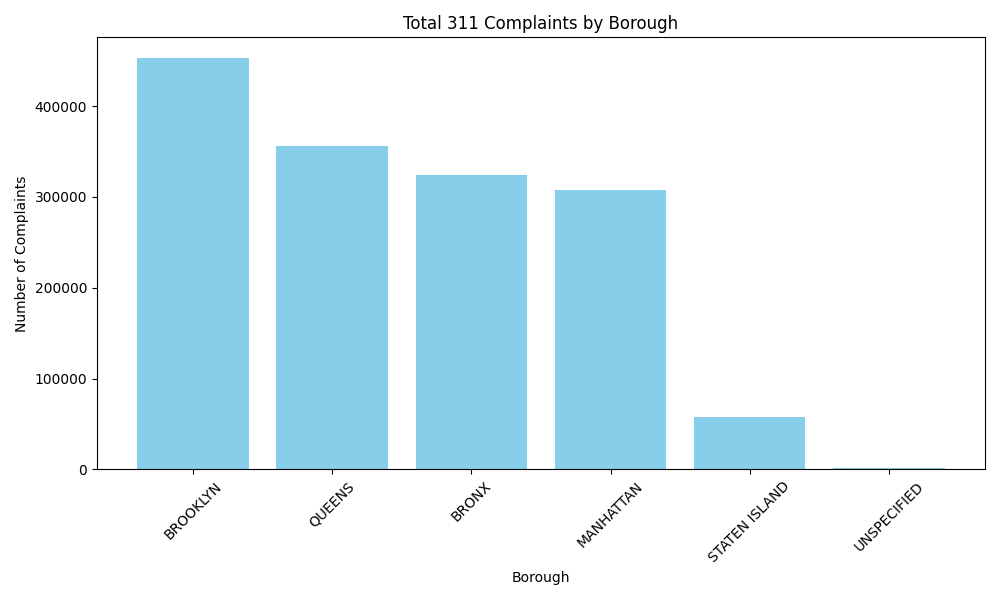
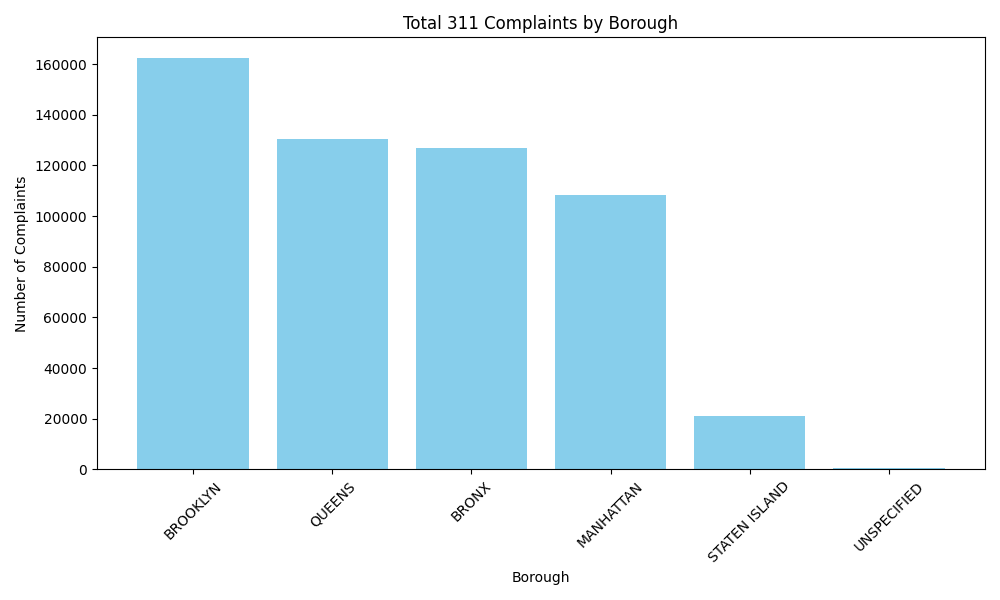
Program now runs and automatically downloads datafile

diff --git a/project/src/utilities.py b/project/src/utilities.py
@@ -1,0 +1,54 @@
+import json
+import os
+import time
+import urllib.request
+import urllib.parse
+import logging
+import sys
+import polars as pl
+
+DATA_URL = "https://data.cityofnewyork.us/resource/erm2-nwe9.json"
+DATA_OUT = os.path.join(os.path.dirname(__file__), "..", "..", "nyc_311_raw_data.jsonl")
+
+def download_data():
+    print("Downloading NYC 311 data...")
+    with open(DATA_OUT, "w") as f:
+        offset, total = 0, 0
+        while offset < 15_000_000:
+            params = urllib.parse.urlencode({"$limit": 50000, "$offset": offset, "$order": "created_date DESC"})
+            data = json.loads(urllib.request.urlopen(f"{DATA_URL}?{params}", timeout=60).read())
+            if not data:
+                break
+            for r in data:
+                f.write(json.dumps(r) + "\n")
+            total += len(data)
+            offset += 500_000
+            time.sleep(0.5)
+    print(f"Done. {total:,} records saved to {DATA_OUT}.")
+
+if __name__ == "__main__":
+    download_data()
+
+def get_logger(name: str):
+    logger = logging.getLogger(name)
+    
+    # Only add handlers if they don't exist to avoid duplicate logs
+    if not logger.handlers:
+        logger.setLevel(logging.INFO)
+        
+        # Format: Time - Name - Level - Message
+        formatter = logging.Formatter(
+            '%(asctime)s - %(name)s - %(levelname)s - %(message)s'
+        )
+
+        # Output to console
+        console_handler = logging.StreamHandler(sys.stdout)
+        console_handler.setFormatter(formatter)
+        logger.addHandler(console_handler)
+
+        # Output to file (Requirement 7: Bad-record logging)
+        file_handler = logging.FileHandler("pipeline.log")
+        file_handler.setFormatter(formatter)
+        logger.addHandler(file_handler)
+
+    return logger

diff --git a/project/src/cleanLayer.py b/project/src/cleanLayer.py
@@ -1,20 +1,13 @@
 import gc
 import polars as pl
-from pymongo import MongoClient
 from src.models import ComplaintRecord
-from src.utils.logger import get_logger
-from src.utils.profiler import profile_layer
-from src.config import MONGO_URI, DB_NAME, RAW_COLLECTION, CLEAN_COLLECTION
+from src.utilities import get_logger
+from src.config import DB_NAME, RAW_COLLECTION, CLEAN_COLLECTION, BATCH_SIZE
 
 logger = get_logger("CleanLayer")
 
-def run_clean_layer(batch_size=15000):
-    """
-    Main orchestrator for the cleaning process.
-    Batch size lowered to 15k to stay safely under 2GB RAM limits.
-    """
-    client = MongoClient(MONGO_URI)
-    db = client[DB_NAME]
+def run_clean_layer(db):
+
     raw_col = db[RAW_COLLECTION]
     clean_col = db[CLEAN_COLLECTION]
 
@@ -40,7 +33,7 @@ def run_clean_layer(batch_size=15000):
     for record in cursor:
         batch.append(record)
         
-        if len(batch) >= batch_size:
+        if len(batch) >= BATCH_SIZE:
             process_and_save_batch(batch, clean_col)
             total_processed += len(batch)
             logger.info(f"Progress: {total_processed}/{total_docs} records...")
@@ -54,13 +47,6 @@ def run_clean_layer(batch_size=15000):
     if batch:
         process_and_save_batch(batch, clean_col)
         logger.info(f"ETL Pipeline Complete. Total Cleaned: {total_processed + len(batch)}")
-
-    # --- RUN THE HEALTH CHECK ---
-    logger.info("Running post-clean health check...")
-    clean_sample = list(clean_col.find().limit(100000))
-    if clean_sample:
-        clean_df = pl.DataFrame(clean_sample)
-        profile_layer(clean_df, "CLEAN_DATA_POST_CLEAN")
 
 def process_and_save_batch(batch, collection):
     """Validates data with Pydantic and cleans with Polars."""

diff --git a/project/main.py b/project/main.py
@@ -1,23 +1,36 @@
+from pymongo import MongoClient
 from src.cleanLayer import run_clean_layer
-from src.rawLayer import run_raw_profile 
+from src.rawLayer import run_raw_layer
 from src.aggregateLayer import run_aggregate_layer
-from src.utils.logger import get_logger
-from src.config import MONGO_URI
+from src.utilities import get_logger
+from src.config import MONGO_URI, DB_NAME, RAW_COLLECTION, CLEAN_COLLECTION, AGGREGATE_COLLECTION
 
 logger = get_logger("Main")
 
-if __name__ == "__main__":
+def main():
     logger.info(f"Starting pipeline on URI: {MONGO_URI}")
+    
     try:
-        # Step 1: See how messy the data is first
-        run_raw_profile(sample_size=100000)
-        
-        # Step 2: Run the cleaning process
-        run_clean_layer()
+        client = MongoClient(MONGO_URI)
+        db = client[DB_NAME]
 
-        # Step 3: Run the Business Logic and Graphing
-        run_aggregate_layer() # <-- Run it here
+        logger.info(f"Clearing existing collections.")
+        for collection in [RAW_COLLECTION, CLEAN_COLLECTION, AGGREGATE_COLLECTION]:
+            db[collection].delete_many({})
+
+        # Step 2: See how messy the data is first
+        run_raw_layer(db)
+        
+        # Step 3: Run the cleaning process
+        run_clean_layer(db)
+
+        # Step 4: Run the Business Logic and Graphing
+        run_aggregate_layer(db)
         
         logger.info("Pipeline execution finished successfully.")
+    
     except Exception as e:
         logger.error(f"Pipeline crashed: {e}", exc_info=True)
+
+if __name__ == "__main__":
+    main()

diff --git a/project/src/rawLayer.py b/project/src/rawLayer.py
@@ -1,22 +1,20 @@
-from pymongo import MongoClient
 import polars as pl
-from src.config import MONGO_URI, DB_NAME, RAW_COLLECTION
-from src.utils.profiler import profile_layer
-from src.utils.logger import get_logger
+from src.config import RAW_COLLECTION, BATCH_SIZE
+from src.utilities import get_logger, DATA_OUT
 
 logger = get_logger("RawLayer")
 
-def run_raw_profile(sample_size=100000):
-    client = MongoClient(MONGO_URI)
-    db = client[DB_NAME]
-    
-    logger.info(f"Sampling {sample_size} records from {RAW_COLLECTION} for profiling...")
-    raw_data = list(db[RAW_COLLECTION].find().limit(sample_size))
-    
-    if not raw_data:
-        logger.error("No raw data found to profile!")
-        return
+def run_raw_layer(db):
+    logger.info("Loading raw JSONL data into DataFrame.")
 
-    # FIX: Add strict=False to allow messy, mixed-type columns
-    df = pl.DataFrame(raw_data, strict=False)
-    profile_layer(df, "RAW_DATA_PRE_CLEAN")
+    # .jsonl into df
+    df = pl.read_ndjson(DATA_OUT)
+
+    # load df into collection
+    collection = db[RAW_COLLECTION]
+    records = df.to_dicts()
+    
+    for i in range(0, len(records), BATCH_SIZE):
+        collection.insert_many(records[i:i + BATCH_SIZE])
+
+    logger.info(f"Inserted records into '{RAW_COLLECTION}'.")

diff --git a/project/src/aggregateLayer.py b/project/src/aggregateLayer.py
@@ -1,15 +1,12 @@
 import os
 import polars as pl
-from pymongo import MongoClient
 import matplotlib.pyplot as plt
-from src.config import MONGO_URI, DB_NAME, CLEAN_COLLECTION
-from src.utils.logger import get_logger
+from src.config import CLEAN_COLLECTION
+from src.utilities import get_logger
 
 logger = get_logger("AggregateLayer")
 
-def run_aggregate_layer():
-    client = MongoClient(MONGO_URI)
-    db = client[DB_NAME]
+def run_aggregate_layer(db):
     clean_col = db[CLEAN_COLLECTION]
 
     logger.info("Fetching clean data for Aggregation")

diff --git a/project/src/config.py b/project/src/config.py
@@ -1,13 +1,9 @@
 import os
 
-# MongoDB Settings
-# Using "mongodb://localhost:27017" if running Python locally
-# If running Python inside Docker, use the service name from compose.yaml
 MONGO_URI = os.getenv("MONGO_URI", "mongodb://localhost:27017")
-DB_NAME = "bigdata_db"
-RAW_COLLECTION = "raw_311"
-CLEAN_COLLECTION = "cleaned_311"
-AGG_COLLECTION = "analytics_summary"
+DB_NAME = "db"
+RAW_COLLECTION = "rawData"
+CLEAN_COLLECTION = "cleanData"
+AGGREGATE_COLLECTION = "aggregateData"
 
-# Project Settings
-LOG_LEVEL = "INFO"
+BATCH_SIZE = 100000
